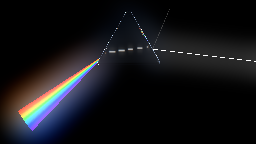
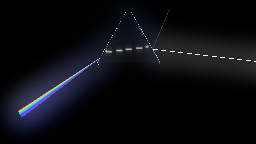
T913: E13's dispersion goes physical — Cauchy, real Δn, Fresnel at both faces
The owner: the impact angle should decide split-or-converge, and the exit must
react accordingly at every boundary. The trace was already right — Snell per
wavelength, TIR as a drawn path, the fan emergent — but three things kept the
physics from READING as physics:

(a) Δn was 0.085, 3–5× any real glass, so the spectrum fanned at nearly every
angle and the split stopped being caused by anything. Now 0.030 — dense
flint's real number (crown is 0.018). With a physical spread, near-normal
incidence converges every wavelength BY SNELL and oblique incidence parts
them; no branch decides it, which is the owner's ask falling straight out of
correct constants.

(b) The curve was linear in t; real glass is Cauchy, n = A + B/λ² (λ 0.7µm →
0.4µm). B derives from value2 so the knob keeps meaning "total spread across
the band" and every existing measurement keeps its meaning, while the curve
turns violet-heavy — the end the eye reads first, exactly what linear-in-t
flattened. The reference pipeline uses the same law with the same two numbers.

(c) Fresnel existed at the ENTRY face only (the Schlick ghost, T758's slots
1–3 — the orchestrator's "no Fresnel at all" was a grep for the word; the
physics was there under `0.043 + 0.957·pow`). What was missing is the EXIT
face: each band's brightness is now the entry share × its OWN exit share,
with R0 from that band's own n — so a band nearing the critical angle dims
toward zero BEFORE it TIRs, and grazing entry dims the whole fan while the
[…]

diff --git a/src/examples/shaders/prism-trace.wgsl.ts b/src/examples/shaders/prism-trace.wgsl.ts
@@ -106,6 +106,27 @@ const ROOT3: f32 = 1.7320508;
    isn't, instead of stopping at a face it never met. */
 const MISS_LEN: f32 = 2.60;
 
+/* CAUCHY DISPERSION (T913): n(λ) = A + B/λ², the real curve, replacing linear-in-t.
+   λ runs 0.7µm (red, t = 0) → 0.4µm (violet, t = 1). B is derived from the SPREAD the
+   document asks for (value2 stays "total Δn across the band", so every measurement keeps
+   its meaning) — and the curve is violet-heavy, which is the end of the spectrum the eye
+   reads first and exactly what linear-in-t flattened. */
+const LAMBDA_RED: f32 = 0.7;
+const LAMBDA_VIOLET: f32 = 0.4;
+fn cauchyN(t: f32, spread: f32) -> f32 {
+  let lam = mix(LAMBDA_RED, LAMBDA_VIOLET, t);
+  let invRed = 1.0 / (LAMBDA_RED * LAMBDA_RED);
+  let k = 1.0 / (LAMBDA_VIOLET * LAMBDA_VIOLET) - invRed;
+  return N_RED + (spread / k) * (1.0 / (lam * lam) - invRed);
+}
+
+/* Schlick with the band's OWN normal-incidence reflectance — R0 = ((n−1)/(n+1))². */
+fn schlick(cosI: f32, n: f32) -> f32 {
+  let r0root = (n - 1.0) / (n + 1.0);
+  let r0 = r0root * r0root;
+  return r0 + (1.0 - r0) * pow(1.0 - cosI, 5.0);
+}
+
 /* WGSL's own refract, in 2D. A zero return IS total internal reflection — and unlike
    the previous optics, TIR here selects the reflected path instead of deleting it. */
 fn refract2(i: vec2f, n: vec2f, eta: f32) -> vec2f {
@@ -134,6 +155,10 @@ struct Traced {
   firstHit: vec2f,
   /* 1.0 when the ray left through the BASE after TIR at the exit face. */
   tir: f32,
+  /* |cos| of the INTERNAL incidence at the face the ray actually left through — what the
+     exit face's Fresnel share is computed from (T913). 1 when degenerate, so a collapsed
+     ray costs no brightness by accident. */
+  exitCos: f32,
 };
 
 /* The whole path of ONE wavelength: entry Snell, internal segment to the nearest
@@ -143,6 +168,7 @@ struct Traced {
 fn tracePrism(pe: vec2f, dIn: vec2f, n: f32, ri: f32) -> Traced {
   var out: Traced;
   out.tir = 0.0;
+  out.exitCos = 1.0;
   let d2 = refract2(dIn, NR, 1.0 / n);
   /* Entry at grazing beyond range: keep the geometry degenerate-safe. */
   if (dot(d2, d2) < 1.0e-9) {
@@ -163,6 +189,7 @@ fn tracePrism(pe: vec2f, dIn: vec2f, n: f32, ri: f32) -> Traced {
   if (dot(d3, d3) > 1.0e-9) {
     out.exitPoint = p1;
     out.exitDirection = d3;
+    out.exitCos = abs(dot(d2, n1));
     return out;
   }
   /* TOTAL INTERNAL REFLECTION: the face is a mirror; the ray crosses to the other
@@ -176,6 +203,7 @@ fn tracePrism(pe: vec2f, dIn: vec2f, n: f32, ri: f32) -> Traced {
   let d4 = refract2(dr, -n2, n);
   /* Twice-trapped: draw nothing rather than something invented. */
   out.exitDirection = select(d4, vec2f(0.0), dot(d4, d4) < 1.0e-9);
+  out.exitCos = abs(dot(dr, n2));
   return out;
 }
 `;
@@ -223,7 +251,7 @@ fn process(p: Point, ctx: PointCtx) -> Point {
   let onFace = abs(tau) < RI * ROOT3;
 
   /* The CENTRAL wavelength's path — the visible interior, shared by slots 2 and 3. */
-  let nMid = N_RED + ctx.value2 * 0.5;
+  let nMid = cauchyN(0.5, ctx.value2);
   let mid = tracePrism(pe, dIn, nMid, RI);
 
   if (ctx.index == 0u) {
@@ -279,14 +307,21 @@ fn process(p: Point, ctx: PointCtx) -> Point {
      the BASE after TIR — so the fan opens at the face and a band near the critical
      angle visibly walks off the end of it. */
   let t = f32(ctx.index - 4u) / f32(ctx.count - 5u);
-  let n = N_RED + ctx.value2 * t;
+  let n = cauchyN(t, ctx.value2);
   let band = tracePrism(pe, dIn, n, RI);
   /* A ray that missed the glass disperses nothing: the whole fan collapses to zero
      length at the entry point, and the shaft above is the only thing drawn. */
   let root = select(pe, band.exitPoint, onFace);
   q.position = vec3f(root, PLANE);
   q.tip = vec3f(select(root, band.exitPoint + band.exitDirection * FAN_LEN, onFace), PLANE);
-  q.tint = vec4f(fieldAt(vec3f(t * 2.0 - 1.0, 0.0, 0.0)).rgb, 1.0);
+  /* FRESNEL AT BOTH FACES (T913): the band's brightness is what the entry face let
+     through times what its OWN exit face let through — so a band nearing the critical
+     angle dims toward zero BEFORE it TIRs (the transmitted share goes to the reflected
+     leg), and at grazing entry the whole fan dims while the ghost brightens. Same Snell,
+     same Schlick, no branch deciding anything. */
+  let tEntry = 1.0 - schlick(abs(dot(dIn, NR)), n);
+  let tExit = 1.0 - schlick(band.exitCos, n);
+  q.tint = vec4f(fieldAt(vec3f(t * 2.0 - 1.0, 0.0, 0.0)).rgb * tEntry * tExit, 1.0);
   q.role = 1.0;
   return q;
 }`;

diff --git a/src/examples/documents/prism.ts b/src/examples/documents/prism.ts
@@ -62,10 +62,13 @@ import { prismTraceKernel } from "../shaders/prism-trace.wgsl.ts";
  *
  * THE DISPERSION IS THE EXAMPLE, and it is solved rather than drawn. `optics1` runs
  * Snell's law twice per band, vectorially, in the prism's own cross-section: refract in
- * at the right face, cross to the left face plane, refract out. n runs 1.500 (red) to
- * 1.585 (violet) — real crown glass disperses about a sixth of that, and the
- * exaggeration is `value2`, a number this file owns rather than a constant hidden in the
- * kernel. Sixty-one bands take their colour from `spectrum1` through the kernel's own
+ * at the right face, cross to the left face plane, refract out. n follows CAUCHY
+ * (T913, n = A + B/λ², λ 0.7µm → 0.4µm), violet-heavy the way real glass is, and runs
+ * 1.500 (red) to 1.530 (violet) — `value2` is the total spread, 0.030, DENSE FLINT's
+ * real number (crown is 0.018; the old 0.085 was 3–5× exaggerated, which is why the fan
+ * looked split at every angle and the impact angle stopped reading as the cause). The
+ * split-or-converge behaviour is Snell's own: at near-normal incidence every wavelength
+ * refracts alike and the beam stays a line; obliquely they part. No branch decides it. Sixty-one bands take their colour from `spectrum1` through the kernel's own
  * `field` input (`fieldAt(vec3f(t·2−1, 0, 0))` samples the ramp at u = t, v = 0.5), so
  * hue and refractive index are the SAME parameter and the ramp is the authored spectrum.
  *
@@ -80,11 +83,12 @@ import { prismTraceKernel } from "../shaders/prism-trace.wgsl.ts";
  * on the entry face, and RISES as the internal ray approaches the critical angle at the
  * EXIT face. Computed over the swing: 5.98° of fan at θ1 = 62°, 10.91° at θ1 = 37°.
  * Measured on the picture at the same two aims — the vertical span of the fan at screen
- * column 240 — 46px and 108px, a ratio of 2.35. The exit face is where dispersion is
- * made; the entry face only decides how obliquely the ray arrives there.
+ * column 240 — 18px and 33px at T913's physical Δn, ratio 1.83, within a hair of the
+ * derived 1.82 (the exaggerated 0.085 read 108/46 = 2.35 — §V751). The exit face is where
+ * dispersion is made; the entry face only decides how obliquely the ray arrives there.
  *
  * THE SWING stops at 37° and not lower, and the reason USED to be in the same arithmetic:
- * at n = 1.585 the critical angle is 39.1°, θ3 reaches it at θ1 ≈ 33.7°, and below that
+ * at n = 1.530 (T913's violet) the critical angle is 40.8°, θ3 reaches it at low θ1, and below that
  * the violet end TOTALLY INTERNALLY REFLECTS — which the old optics expressed by returning
  * a zero vector, so a band quietly left the spectrum. T718 removed that reason when it made
  * TIR a drawn PATH (reflect at the exit face, cross to the base, Snell out there), and
@@ -344,9 +348,9 @@ export const prismDocument = document(
         attributes: PRISM_OPTICS_ATTRIBUTES,
         kernel: prismTraceKernel((PRISM_RC / 2).toFixed(3)),
         // The glass's DISPERSIVE POWER, and the one number the whole effect rests on:
-        // n runs 1.500 (red) to 1.585 (violet). Set it to 0 and the fan collapses to a
+        // n runs 1.500 (red) to 1.530 (violet), Cauchy (T913). Set it to 0 and the fan collapses to a
         // single ray, which is what the gate asserts.
-        value2: 0.085,
+        value2: 0.03,
       }, {
         label: "optics1",
         // T857: three slots, and NONE of them is added to another. `value1` is the

diff --git a/src/examples/concepts/e13-prism.test.ts b/src/examples/concepts/e13-prism.test.ts
@@ -328,7 +328,7 @@ describe("E13 Prism", () => {
    */
   it("takes each band's colour and its refractive index from the same t", () => {
     const kernel = kernelOf("optics");
-    expect(kernel).toContain("let n = N_RED + ctx.value2 * t;");
+    expect(kernel).toContain("let n = cauchyN(t, ctx.value2);");
     expect(kernel).toContain("fieldAt(vec3f(t * 2.0 - 1.0, 0.0, 0.0))");
 
     // `fieldAt` compiles only when something is wired to the kernel's field input, so the
@@ -363,7 +363,8 @@ describe("E13 Prism", () => {
   it("carries the glass's dispersive power as a live uniform the kernel reads", () => {
     const dispatch = plan.passes.find((entry) => entry.kind === "dispatch" && entry.nodeId === "optics");
     const uniforms = (dispatch as { uniforms?: Record<string, number> }).uniforms ?? {};
-    expect(uniforms["value2"]).toBeCloseTo(0.085, 6);
+    // T913: dense flint's real spread — the split-or-converge is Snell's, not a knob.
+    expect(uniforms["value2"]).toBeCloseTo(0.03, 6);
     expect(kernelOf("optics")).toContain("ctx.value2");
     // Real crown glass is about a sixth of this, and the exaggeration is stated in the md.
     expect(uniforms["value2"]).toBeGreaterThan(0);

diff --git a/src/examples/prism-trace.gpu.test.ts b/src/examples/prism-trace.gpu.test.ts
@@ -192,7 +192,14 @@ const handTauOf = (px: number): number => REACH * (0.5 - px);
 /** The entry point's coordinate ALONG the face, from the face's own midpoint. */
 const tauOf = (point: readonly [number, number]): number =>
   (point[0] - NR[0] * RI) * TANGENT[0] + (point[1] - NR[1] * RI) * TANGENT[1];
-const bandN = (t: number, dispersion: number): number => N_RED + dispersion * t;
+/** T913: the kernel's Cauchy curve, mirrored exactly — n(λ)=A+B/λ², λ 0.7µm → 0.4µm,
+ * B derived so `dispersion` stays the total spread across the band. */
+const bandN = (t: number, dispersion: number): number => {
+  const lam = 0.7 + (0.4 - 0.7) * t;
+  const invRed = 1 / (0.7 * 0.7);
+  const k = 1 / (0.4 * 0.4) - invRed;
+  return N_RED + (dispersion / k) * (1 / (lam * lam) - invRed);
+};
 const bandIndex = (t: number): number => 4 + Math.round(t * (CAPACITY - 5));
 /** Inside the cross-section: every face plane satisfied, with a hair of slack. */
 const insideGlass = (point: readonly [number, number]): boolean =>

diff --git a/src/examples/prism.gpu.test.ts b/src/examples/prism.gpu.test.ts
@@ -296,7 +296,11 @@ describe("E13 Prism — the picture", () => {
       const wideSpan = fanRun(wide, COLUMN, FAN_THRESHOLD).span;
       const narrowSpan = fanRun(narrow, COLUMN, FAN_THRESHOLD).span;
       // Both aims must actually put a fan on that column — a span of nothing is not narrow.
-      expect(narrowSpan).toBeGreaterThan(20);
+      // T913 re-measured at the PHYSICAL Δn (0.085 → 0.03, dense flint): 33px against 18px,
+      // ratio 1.83 — now within a hair of the DERIVED angular ratio 1.82, where the old
+      // exaggerated spread read 2.35 (§V751: 108/46 then, 33/18 now). The physics gate got
+      // SHARPER by getting real.
+      expect(narrowSpan).toBeGreaterThan(12);
       expect(wideSpan / narrowSpan).toBeGreaterThan(1.5);
     },
     240_000,
